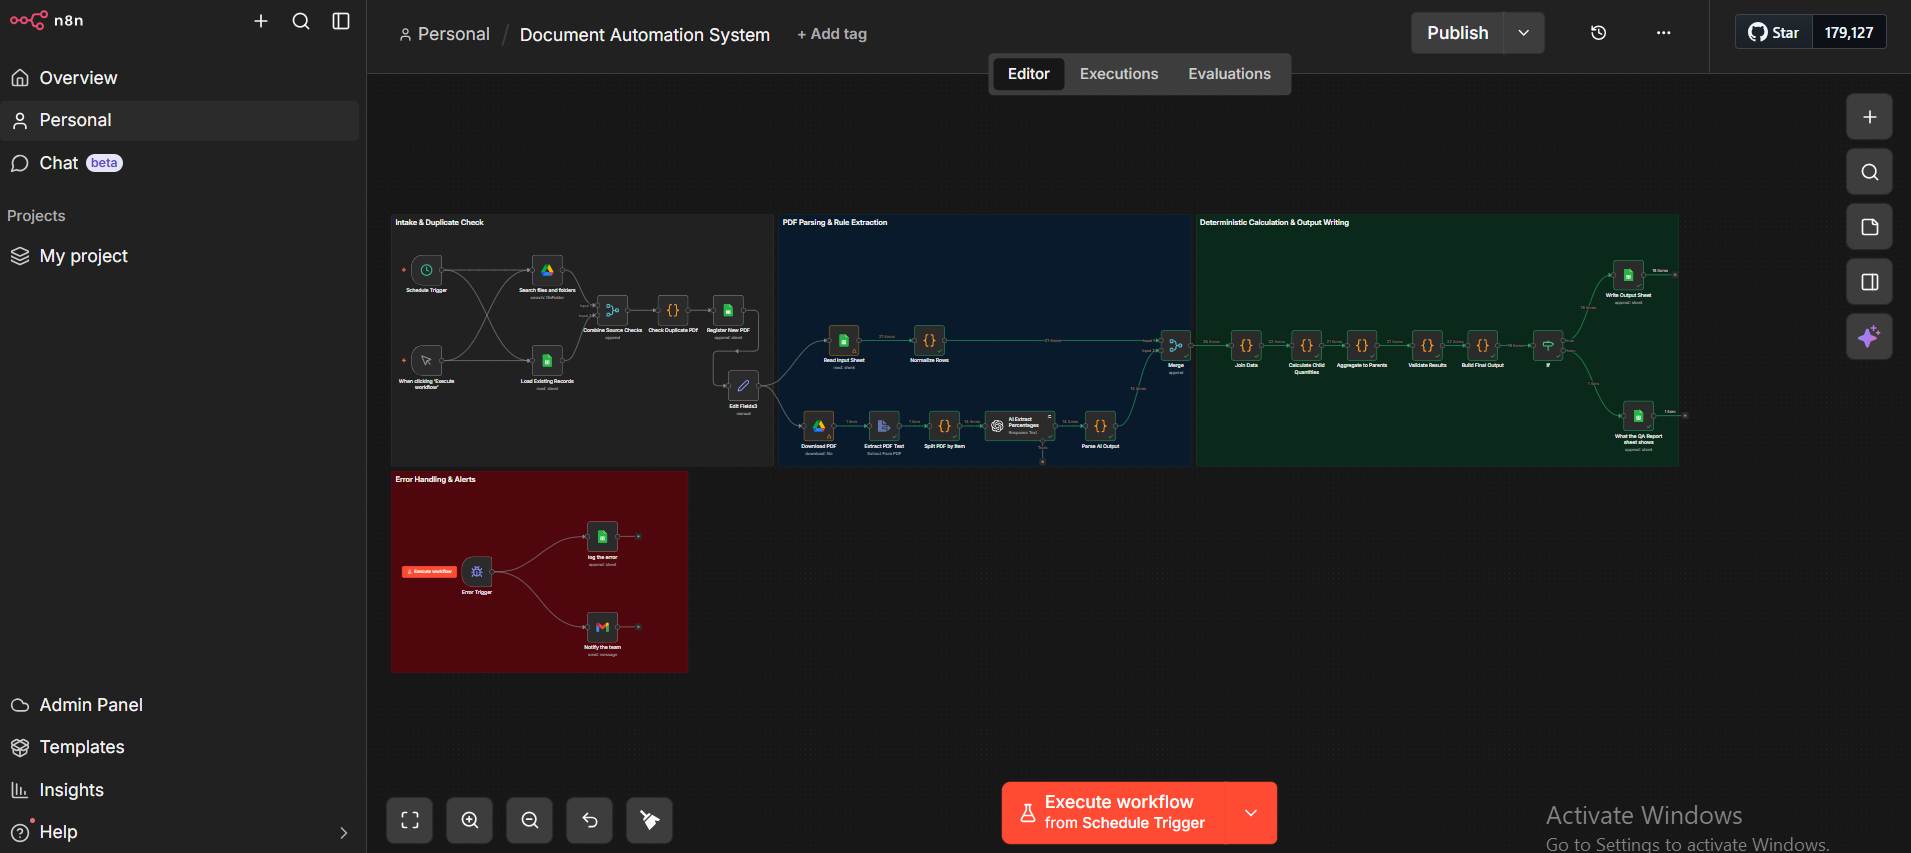
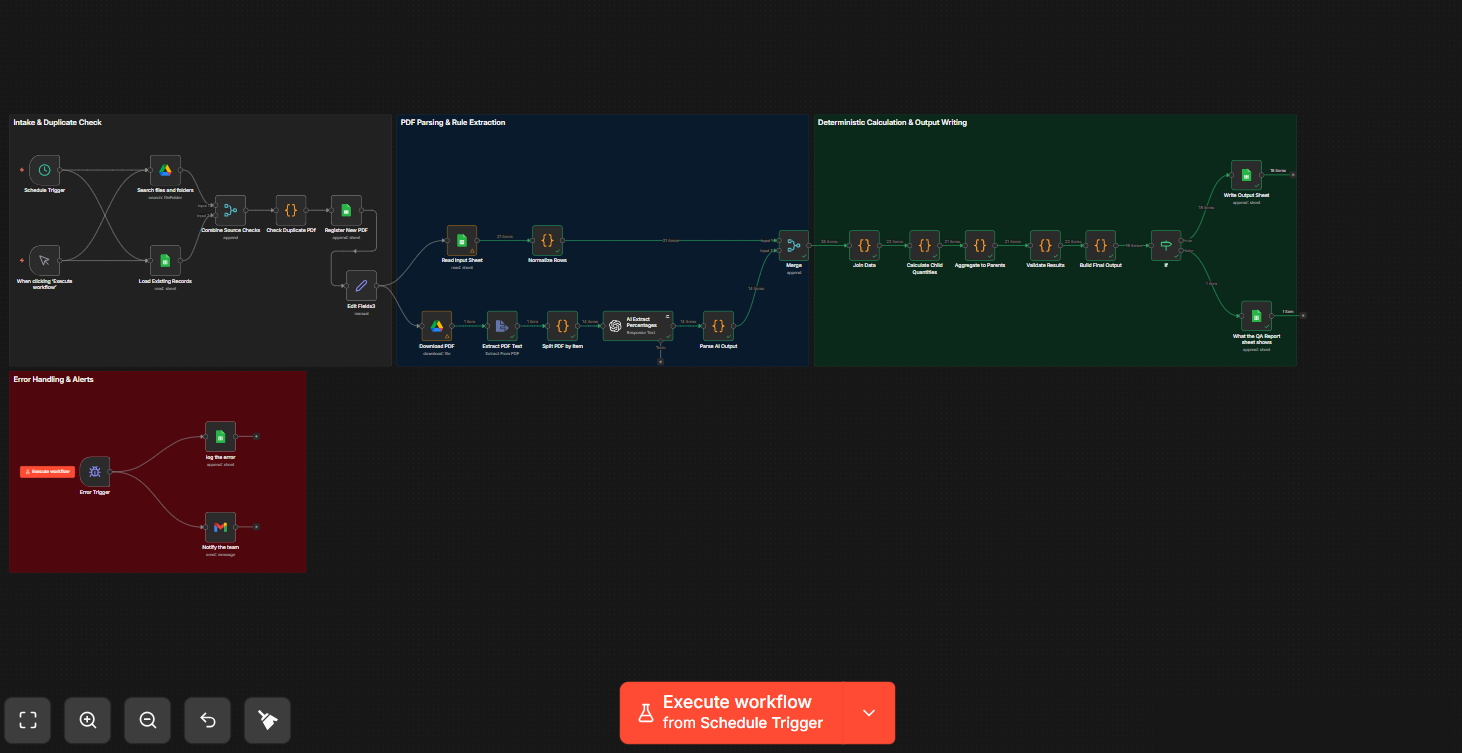
Clean workflow screenshots and add a 10-system gallery to the README

diff --git a/README.md b/README.md
@@ -26,12 +26,78 @@ The public systems below show the same engineering approach on work I can share.
 
 ---
 
+## System gallery
+
+<table>
+  <tr>
+    <td width="50%" valign="top">
+      <a href="./clinic-booking-system"><img src="./clinic-booking-system/clinic%20workflow.jpg" alt="Clinic AI Receptionist workflow" width="100%"></a><br>
+      <b><a href="./clinic-booking-system">Clinic AI Receptionist</a></b><br>
+      <sub>90%+ of inquiries handled end to end</sub>
+    </td>
+    <td width="50%" valign="top">
+      <a href="./hostzera-chat-widget"><img src="./hostzera-chat-widget/chat-widget-workflow.png" alt="Hostzera Chat Assistant workflow" width="100%"></a><br>
+      <b><a href="./hostzera-chat-widget">Hostzera Chat Assistant</a></b><br>
+      <sub>~0.5% measured hallucination rate</sub>
+    </td>
+  </tr>
+  <tr>
+    <td width="50%" valign="top">
+      <a href="./document-automation-system"><img src="./document-automation-system/document-automation-workflow.png" alt="Document Automation workflow" width="100%"></a><br>
+      <b><a href="./document-automation-system">Document Automation</a></b><br>
+      <sub>Zero LLM arithmetic</sub>
+    </td>
+    <td width="50%" valign="top">
+      <a href="./lead-generation-system"><img src="./lead-generation-system/lead-generation-workflow.png" alt="Lead Generation & Outreach workflow" width="100%"></a><br>
+      <b><a href="./lead-generation-system">Lead Generation & Outreach</a></b><br>
+      <sub><2% bounce · 8–12% reply rate</sub>
+    </td>
+  </tr>
+  <tr>
+    <td width="50%" valign="top">
+      <a href="./x-engagement-system"><img src="./x-engagement-system/x-engagement-workflow.jpg" alt="X Engagement Agent workflow" width="100%"></a><br>
+      <b><a href="./x-engagement-system">X Engagement Agent</a></b><br>
+      <sub>Up to 24 expert replies/day, unattended</sub>
+    </td>
+    <td width="50%" valign="top">
+      <a href="./instagram-engagement-system"><img src="./instagram-engagement-system/instagram-engagement-workflow.jpg" alt="Instagram Engagement Agent workflow" width="100%"></a><br>
+      <b><a href="./instagram-engagement-system">Instagram Engagement Agent</a></b><br>
+      <sub>Full lifecycle, zero manual steps</sub>
+    </td>
+  </tr>
+  <tr>
+    <td width="50%" valign="top">
+      <a href="./gym-lead-management"><img src="./gym-lead-management/gym%20workflow.jpg" alt="Gym Lead Management workflow" width="100%"></a><br>
+      <b><a href="./gym-lead-management">Gym Lead Management</a></b><br>
+      <sub>1,450 messages → 137 members in 90 days</sub>
+    </td>
+    <td width="50%" valign="top">
+      <a href="./beauty-center-reception-workflow"><img src="./beauty-center-reception-workflow/beauty%20center%20workflow.jpg" alt="Beauty Center Reception workflow" width="100%"></a><br>
+      <b><a href="./beauty-center-reception-workflow">Beauty Center Reception</a></b><br>
+      <sub>86% first-message service match</sub>
+    </td>
+  </tr>
+  <tr>
+    <td width="50%" valign="top">
+      <a href="./holistic-wellness-club"><img src="./holistic-wellness-club/screenshots/photo_1_2026-02-20_08-16-52.jpg" alt="Wellness Club (GHL + n8n) workflow" width="100%"></a><br>
+      <b><a href="./holistic-wellness-club">Wellness Club (GHL + n8n)</a></b><br>
+      <sub>GoHighLevel journey + n8n event log</sub>
+    </td>
+    <td width="50%" valign="top">
+      <a href="./marketing-lead-engine"><img src="./marketing-lead-engine/marketing-lead-engine-workflow.png" alt="Marketing Content Pipeline workflow" width="100%"></a><br>
+      <b><a href="./marketing-lead-engine">Marketing Content Pipeline</a></b><br>
+      <sub>Permission-first content drafts</sub>
+    </td>
+  </tr>
+</table>
+
+---
+
 ## Featured systems
 
 ### Clinic AI Receptionist
 **n8n · OpenAI (gpt-4o, gpt-4o-mini) · Google Calendar · Google Sheets · Meta Graph API · Telegram**
 
-![clinic workflow](./clinic-booking-system/clinic%20workflow.jpg)
 
 One webhook receives patient messages from four channels and normalizes them into a single schema. A deterministic gpt-4o-mini classifier routes each message; gpt-4o extracts booking details as JSON; **free slots are computed in code from live Google Calendar data** — the model never decides availability. Replies return through the channel the patient used, in Arabic or English.
 
@@ -42,7 +108,6 @@ One webhook receives patient messages from four channels and normalizes them int
 ### Hostzera — Retrieval-Grounded Chat Assistant
 **n8n · Anthropic Claude · Google Sheets · JavaScript**
 
-![hostzera chat widget](./hostzera-chat-widget/chat-widget-workflow.png)
 
 Every visitor message is scored against a staff-editable knowledge base; only the top five rows reach Claude, which is instructed to answer from that context alone and hand off when it cannot. Knowledge-base retrieval and session history load in parallel and merge before a single model call.
 
@@ -53,7 +118,6 @@ Every visitor message is scored against a staff-editable knowledge base; only th
 ### Document Automation — PDF to Excel
 **n8n · OpenAI (gpt-4o) · JavaScript · Gmail · Google Sheets**
 
-![document automation workflow](./document-automation-system/document-automation-workflow.png)
 
 Specification PDFs arrive by email. The LLM extracts handling instructions ("reuse 40%, dispose 30%") as structured rules, exactly as written. **Every calculation, aggregation and validation runs in deterministic code**, and a QA gate routes low-confidence runs to human review instead of delivering them.
 
@@ -64,7 +128,6 @@ Specification PDFs arrive by email. The LLM extracts handling instructions ("reu
 ### Autonomous X & Instagram Engagement Agents
 **n8n · AWS Bedrock · Apify · Unipile · Google Sheets**
 
-![x engagement workflow](./x-engagement-system/x-engagement-workflow.jpg)
 
 Two agents built for a climate-tech brand. Each runs a scraper pipeline and a commenter pipeline linked by a Sheets queue: candidates pass cheap pre-filters, then an LLM relevance classifier with fail-closed JSON parsing, then hard caps, active-hours gating, randomized pacing and duplicate locks before anything is posted.
 
